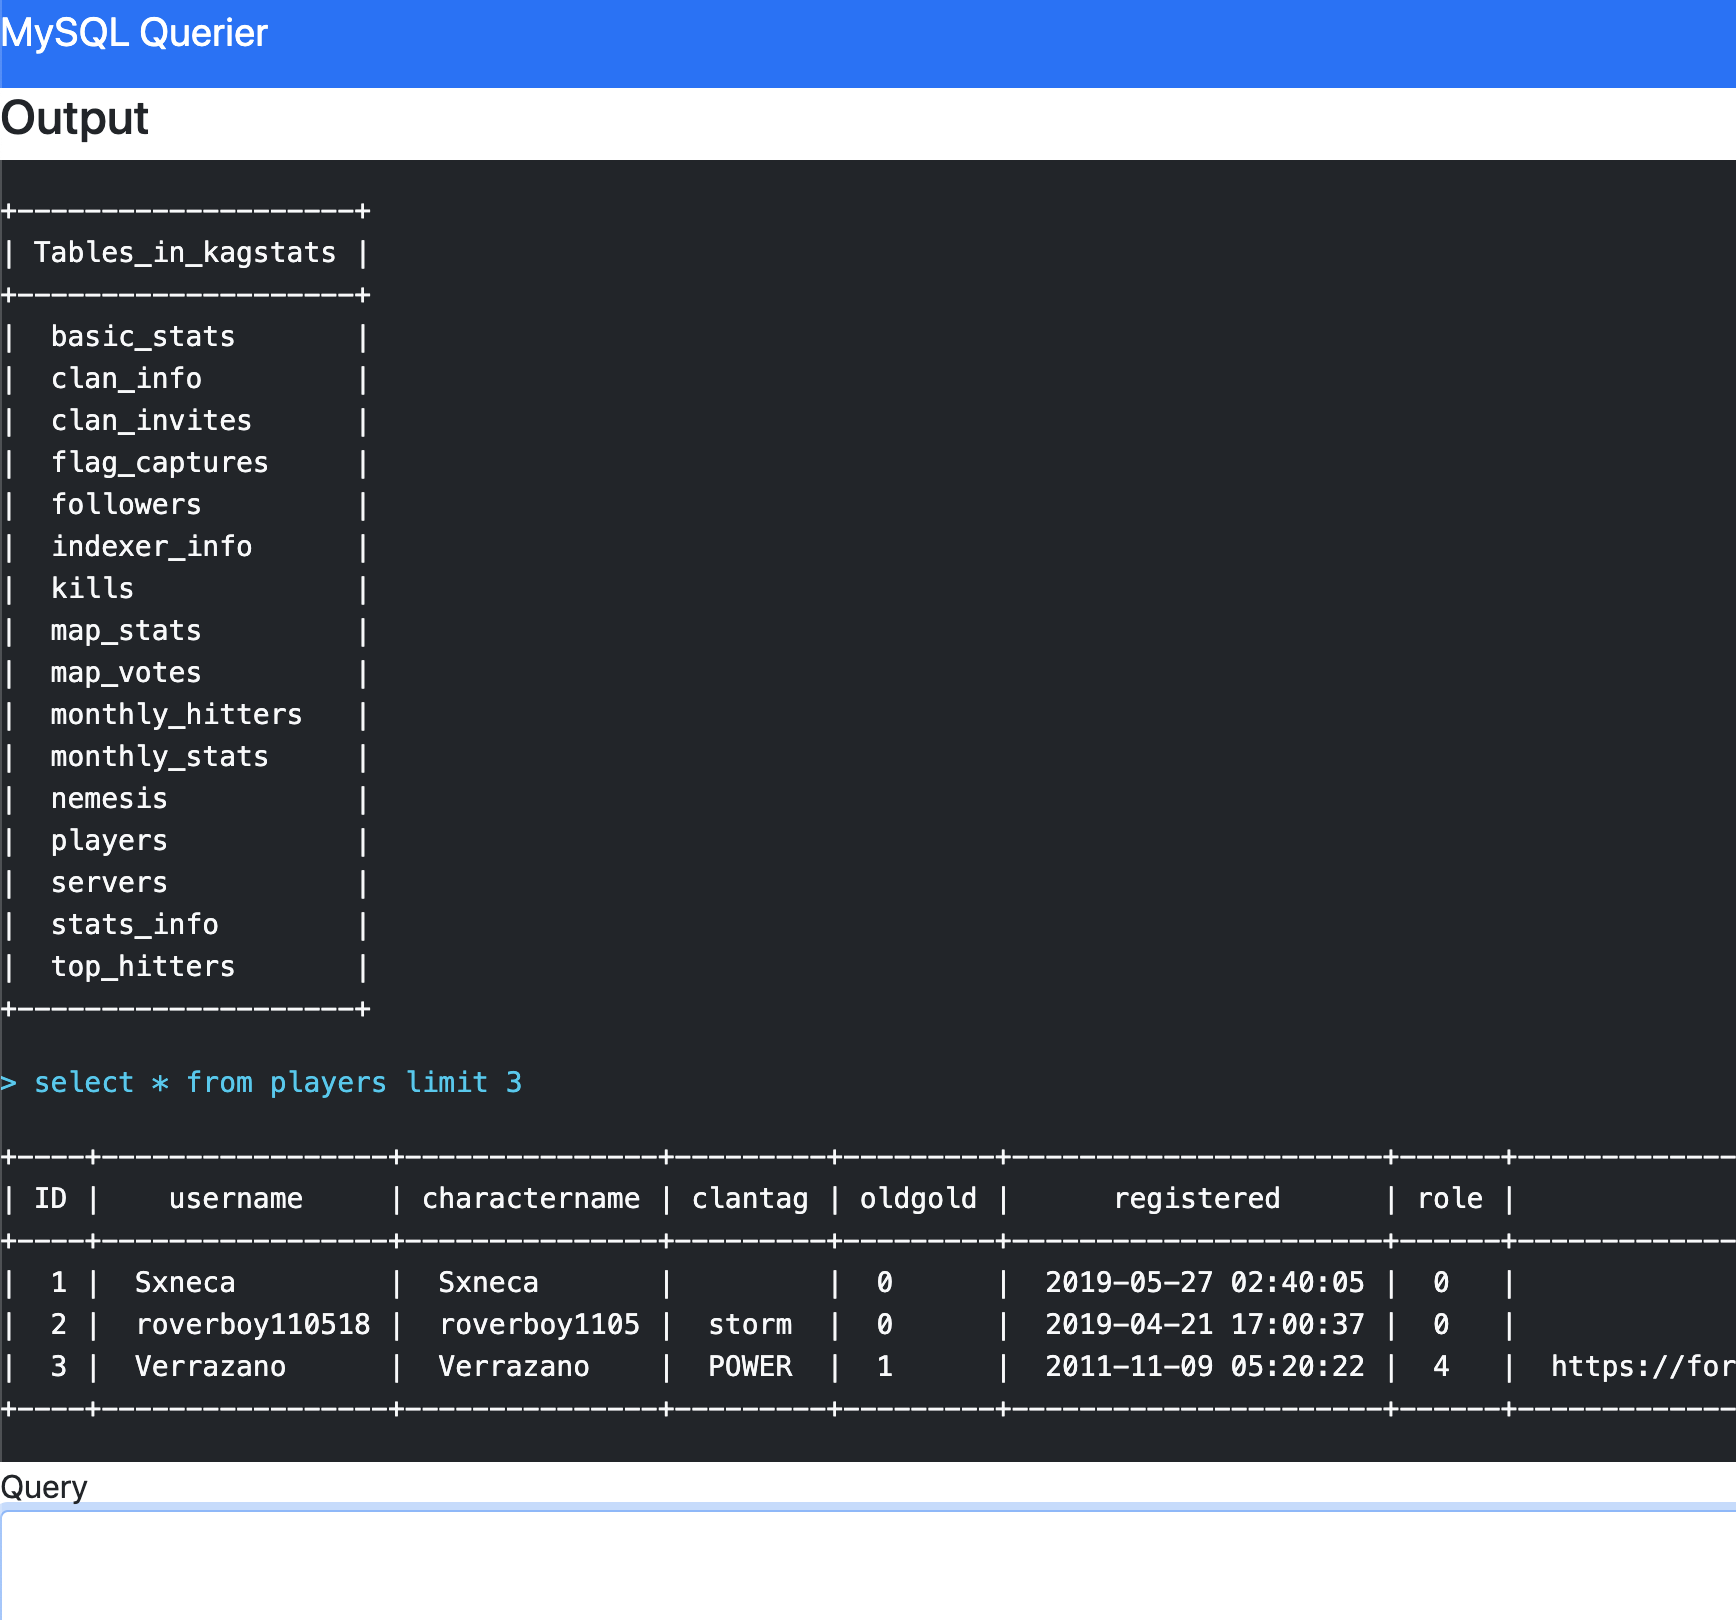
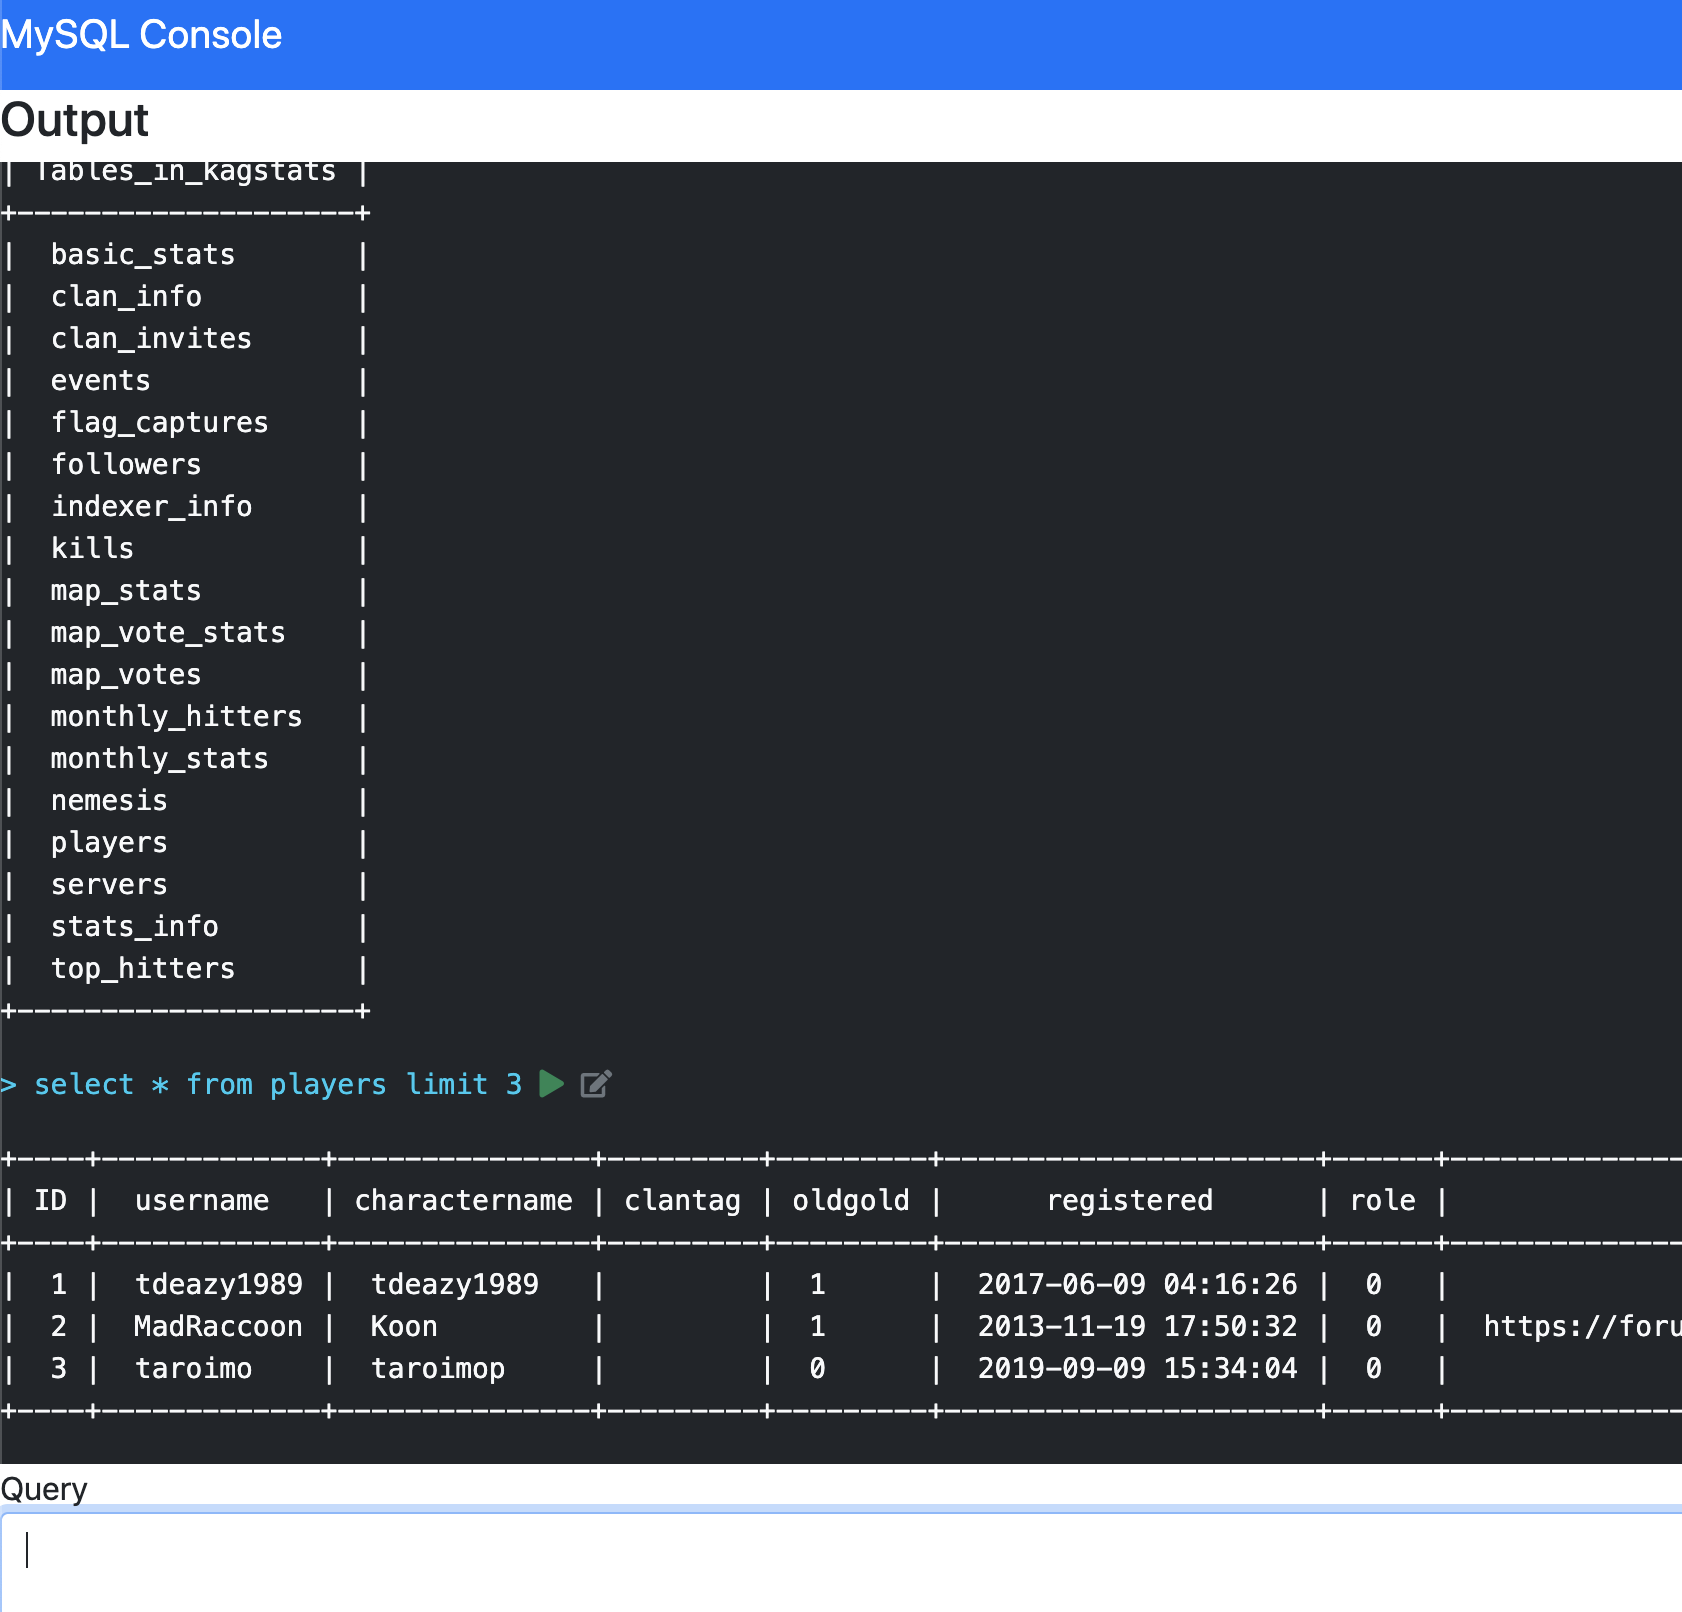
changed name of project to mysql-console.

diff --git a/templates/index.html b/templates/index.html
@@ -4,11 +4,11 @@
     <link href="/static/fontawesome/css/all.min.css" rel="stylesheet" type="text/css">
     <script src="/static/js/bootstrap.bundle.min.js"></script>
     <script src="/static/js/jquery-3.6.0.min.js"></script>
-    <title>MySQL Querier</title>
+    <title>MySQL Console</title>
 </head>
 <body>
 <nav class="navbar navbar-dark bg-primary">
-    <a class="navbar-brand" href="#">MySQL Querier</a>
+    <a class="navbar-brand" href="#">MySQL Console</a>
 </nav>
 
 <h4>Output</h4>

diff --git a/README.md b/README.md
@@ -1,4 +1,4 @@
-# MySQL Querier
+# MySQL Console
 
 A simple web page to run queries against your mysql database.
 
@@ -12,17 +12,17 @@ Go 1.16
 
 ## Build
 
-`go build . -o mysql-querier`
+`go build . -o mysql-console`
 
 ## Docker
 
-`docker run --rm -it -p8080:8080 mysql-querier`
+`docker run --rm -it -p8080:8080 mysql-console`
 
 ## Environment Variables
 
 | Variable | Description | Default | Notes |
 | -------- | ----------- | ------- | ----- |
-| HOST | host for the web server | `:8080` | |
+| HOST | address for the web server | `:8080` | |
 | DB_CONN | db connection string | `root:password@tcp(127.0.0.1:3306)/`| [uses DSN format](https://github.com/go-sql-driver/mysql#dsn-data-source-name) |
 | USERNAME | basic auth username | `admin` | |
 | PASSWORD | basic auth password | `admin` | |
